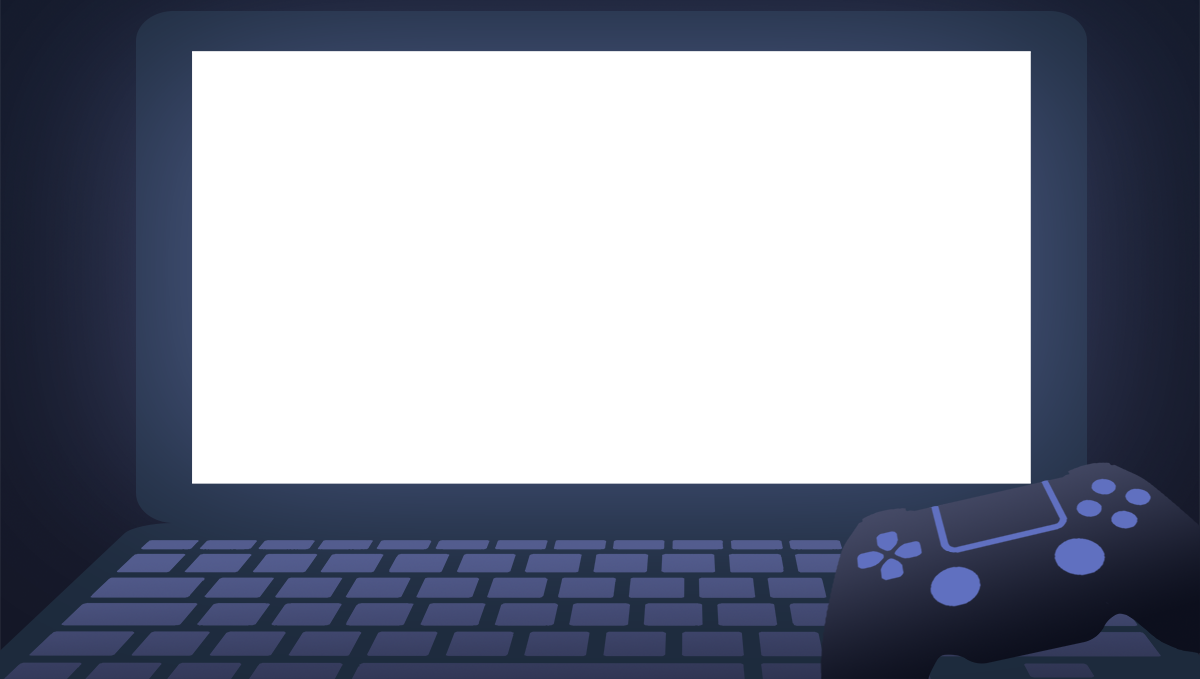
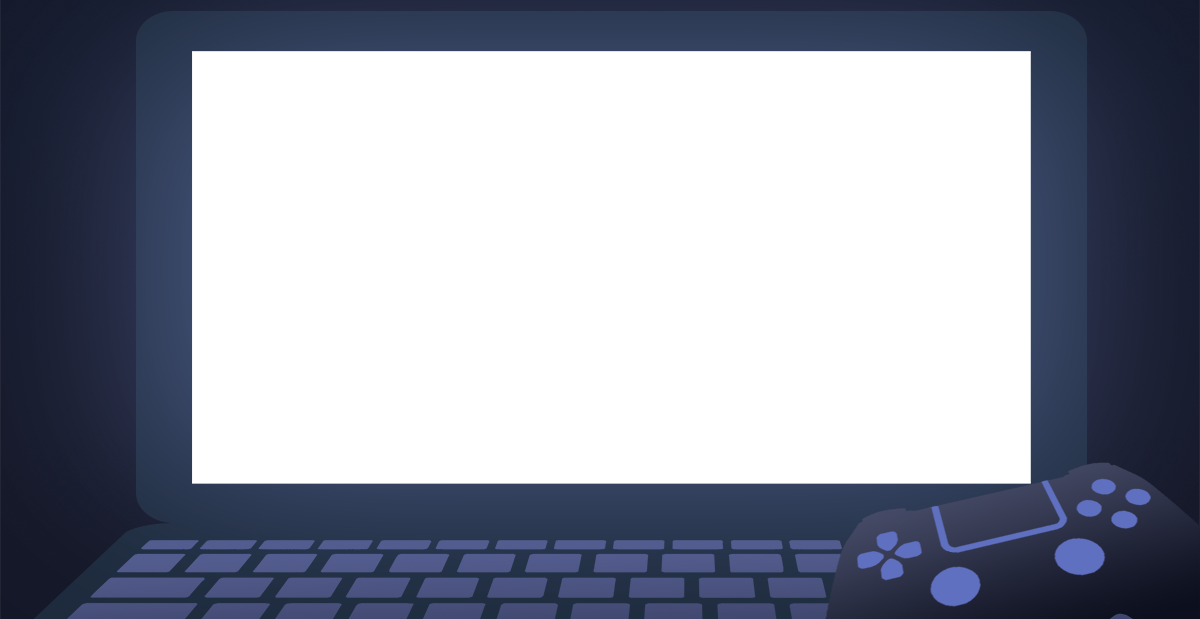
Adjust bg image

Changed region(s): [[0.0, 0.6753, 1.0, 1.0], [0.1542, 0.0614, 0.8633, 0.0921], [0.0925, 0.7367, 0.1233, 0.7674]]

diff --git a/app/templates/search.html b/app/templates/search.html
@@ -9,7 +9,7 @@
 	background-size: 100% 100%;
 	margin-top: -7%;">
 	<div style="position: absolute; top: 0px; height: 100%; width: 100%">
-	<div style="position: relative; top: 7.65%; left: 16.08%; width: 69.7%; height: 63.5%;overflow-y: scroll;overflow-x: hidden;">
+	<div style="position: relative; top: 8.55%; left: 16.08%; width: 69.7%; height: 69.7%;overflow-y: scroll;overflow-x: hidden;">
 		<div style="padding:20px; text-align: right;">
 			<a class="about" href="/about">About</a>
 		</div>
